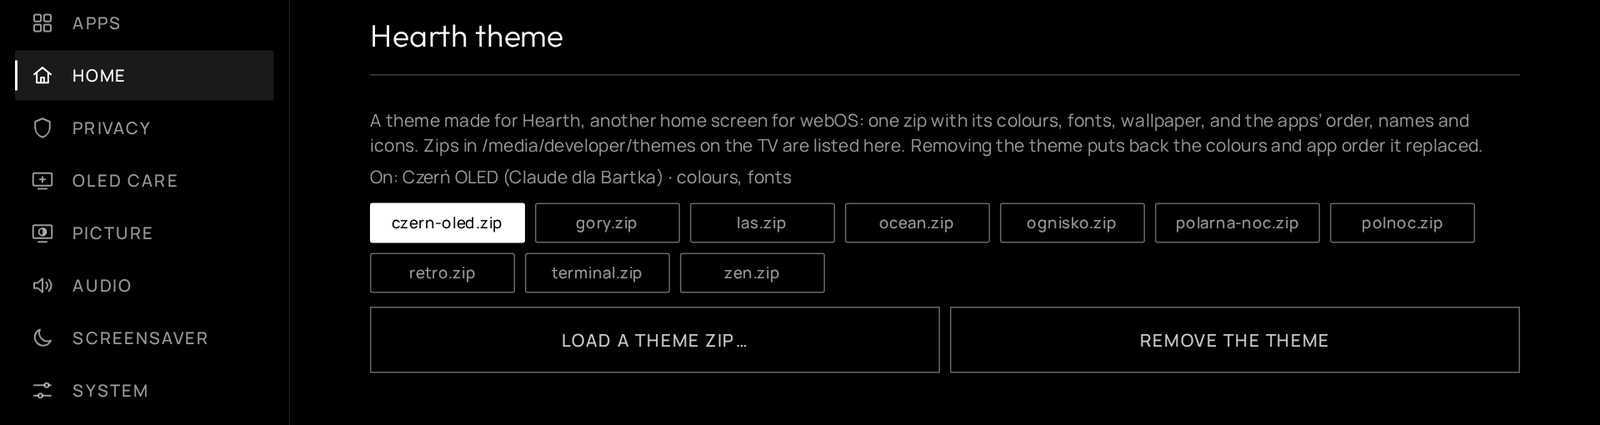
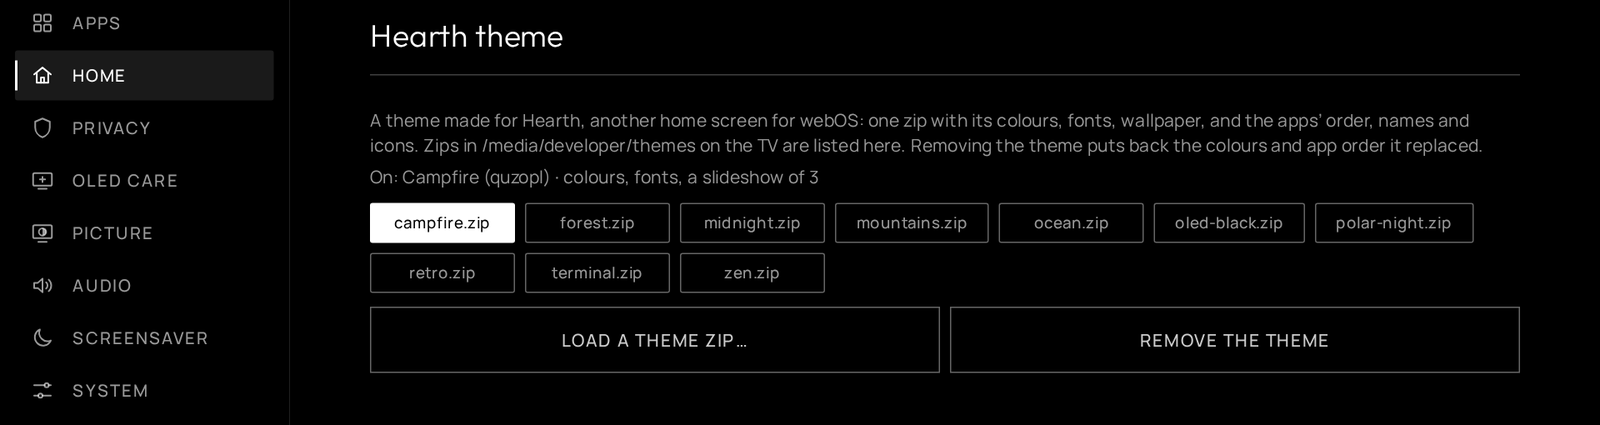
README and screenshots: the ten themes by their English names
Claude-Session: https://claude.ai/code/session_01W3LdqnsWxFoGkMF8Eo1rtz

Changed region(s): [[0.25, 0.3976, 0.9062, 0.5812]]

diff --git a/README.md b/README.md
@@ -10,7 +10,7 @@ An **unofficial fork** of [Glasshouse](https://github.com/rorygallagher2024/glas
 
 Everything else is upstream Glasshouse, unchanged. This fork updates itself from **this** repository's releases.
 
-<p align="center"><img src="docs/screenshots/fork/theme-polarna-noc.jpg" width="900" alt="Glasshouse Home with the Polar night theme: clock, weather panel with a five-day forecast, inputs and apps"></p>
+<p align="center"><img src="docs/screenshots/fork/theme-polar-night.jpg" width="900" alt="Glasshouse Home with the Polar Night theme: clock, weather panel with a five-day forecast, inputs and apps"></p>
 
 ## Contents
 
@@ -25,7 +25,7 @@ Everything else is upstream Glasshouse, unchanged. This fork updates itself from
 
 ## Install
 
-You need a **rooted** LG webOS TV with the [Homebrew Channel](https://github.com/webosbrew/webos-homebrew-channel) (root shown as *ok* in its settings). See upstream's [Homebrew Channel guide](docs/install-homebrew-channel.md) if you don't have it yet.
+You need a **rooted** LG webOS TV with the [Homebrew Channel](https://github.com/webosbrew/webos-homebrew-channel) (root shown as *ok* in its settings). Glasshouse needs root; its catalog entry is marked `rootRequired`, so the Homebrew Channel gives it root on install by itself — nothing to do by hand. It does not work on a TV without root. See upstream's [Homebrew Channel guide](docs/install-homebrew-channel.md) if you don't have it yet.
 
 ### A. From the Homebrew Channel (recommended)
 
@@ -88,20 +88,20 @@ Colours and app order go into the normal Home settings, so you can still change 
 - **Web dashboard** → **Home** → **Hearth theme**: every zip in that folder is a button; **Load a theme zip…** uploads one from your computer; **Remove the theme** takes it off.
 - **With the remote**: open the **Glasshouse** app → **Home** → **Hearth theme**. Each **OK** loads the next zip, and after the last one goes back to none.
 
-**Ten ready-made themes** are attached to every [release](https://github.com/quzopl/glasshouse/releases/latest), one zip each. They use Hearth's public-domain photos and SIL OFL fonts that include Polish and other Central European letters, and list ten Polish cities for the weather:
+**Ten ready-made themes** are attached to every [release](https://github.com/quzopl/glasshouse/releases/latest), one zip each. They use Hearth's public-domain photos and SIL OFL fonts that include Polish and other Central European letters, and list ten Polish cities for the weather (any place can be found by name):
 
 | Zip | Name | Look |
 |---|---|---|
-| `polarna-noc.zip` | Polarna noc (Polar night) | teal palette, aurora and starry skies, Jura |
-| `las.zip` | Las (Forest) | forest green, ferns and an autumn river, Work Sans |
+| `polar-night.zip` | Polar Night | teal palette, aurora and starry skies, Jura |
+| `forest.zip` | Forest | forest green, ferns and an autumn river, Work Sans |
 | `ocean.zip` | Ocean | teal, waves and a reef, Outfit |
-| `gory.zip` | Góry (Mountains) | blue-grey, misty peaks, Lora |
-| `ognisko.zip` | Ognisko (Campfire) | graphite and amber, lava and sunsets, Bricolage Grotesque |
-| `polnoc.zip` | Północ (Midnight) | midnight blue, night landscapes, Poiret One |
+| `mountains.zip` | Mountains | blue-grey, misty peaks, Lora |
+| `campfire.zip` | Campfire | graphite and amber, lava and sunsets, Bricolage Grotesque |
+| `midnight.zip` | Midnight | midnight blue, night landscapes, Poiret One |
 | `zen.zip` | Zen | light grey, a pier in the fog and Mount Fuji, Poppins |
 | `retro.zip` | Retro | OLED black, green pixel font (Pixelify Sans) |
 | `terminal.zip` | Terminal | OLED black, console green, JetBrains Mono |
-| `czern-oled.zip` | Czerń OLED (OLED black) | OLED black, white, Big Shoulders |
+| `oled-black.zip` | OLED Black | OLED black, white, Big Shoulders |
 
 The three black themes have no wallpaper of their own, so your normal Glasshouse wallpaper stays behind them; choose *None* under **Wallpaper** for pure black.
 
@@ -134,11 +134,11 @@ All taken on an LG OLED55CX. The HDMI preview does not show in screenshots: the 
 
 | | |
 |---|---|
-| ![Polar night](docs/screenshots/fork/theme-polarna-noc.jpg) Polarna noc | ![Forest](docs/screenshots/fork/theme-las.jpg) Las |
-| ![Ocean](docs/screenshots/fork/theme-ocean.jpg) Ocean | ![Mountains](docs/screenshots/fork/theme-gory.jpg) Góry |
-| ![Campfire](docs/screenshots/fork/theme-ognisko.jpg) Ognisko | ![Midnight](docs/screenshots/fork/theme-polnoc.jpg) Północ |
+| ![Polar Night](docs/screenshots/fork/theme-polar-night.jpg) Polar Night | ![Forest](docs/screenshots/fork/theme-forest.jpg) Forest |
+| ![Ocean](docs/screenshots/fork/theme-ocean.jpg) Ocean | ![Mountains](docs/screenshots/fork/theme-mountains.jpg) Mountains |
+| ![Campfire](docs/screenshots/fork/theme-campfire.jpg) Campfire | ![Midnight](docs/screenshots/fork/theme-midnight.jpg) Midnight |
 | ![Zen](docs/screenshots/fork/theme-zen.jpg) Zen | ![Retro](docs/screenshots/fork/theme-retro.jpg) Retro |
-| ![Terminal](docs/screenshots/fork/theme-terminal.jpg) Terminal | ![OLED black](docs/screenshots/fork/theme-czern-oled.jpg) Czerń OLED |
+| ![Terminal](docs/screenshots/fork/theme-terminal.jpg) Terminal | ![OLED Black](docs/screenshots/fork/theme-oled-black.jpg) OLED Black |
 
 **The weather panel**
 
@@ -185,7 +185,7 @@ python3 scripts/fork-repo-json.py                                               
 
 - **Glasshouse** © Rory Gallagher, [MIT](LICENSE) — all of the base project. Please report problems with the additions above here, not upstream.
 - **Hearth** © its authors, MIT — theme format, palettes, and the photos and fonts used in the ten themes.
-- Photos in the themes: public domain (as stated by Hearth's `THIRD_PARTY_NOTICES.md`). Fonts: SIL Open Font License 1.1; each theme zip carries its font's licence as `LICENCJA-czcionki.txt`.
+- Photos in the themes: public domain (as stated by Hearth's `THIRD_PARTY_NOTICES.md`). Fonts: SIL Open Font License 1.1; each theme zip carries its font's licence as `FONT-LICENSE.txt`.
 - Weather data: [Open-Meteo](https://open-meteo.com), CC BY 4.0.
 
 This fork is not affiliated with LG, webOS, Hearth or upstream Glasshouse. Rooting and running homebrew on your TV is at your own risk.
